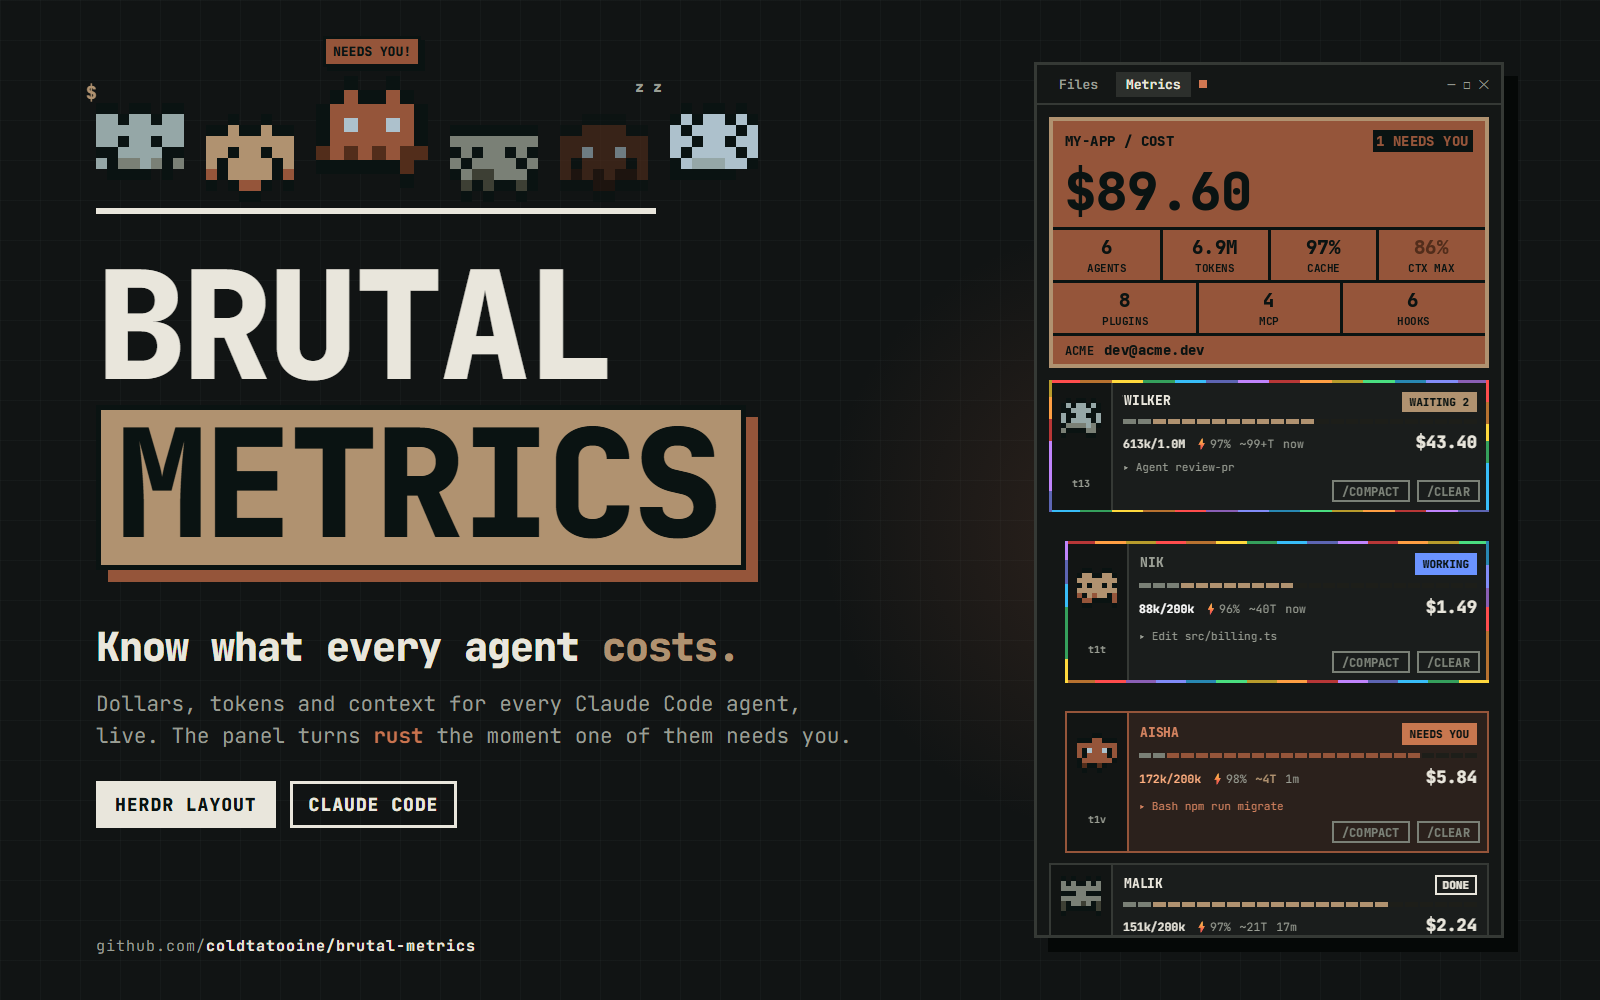
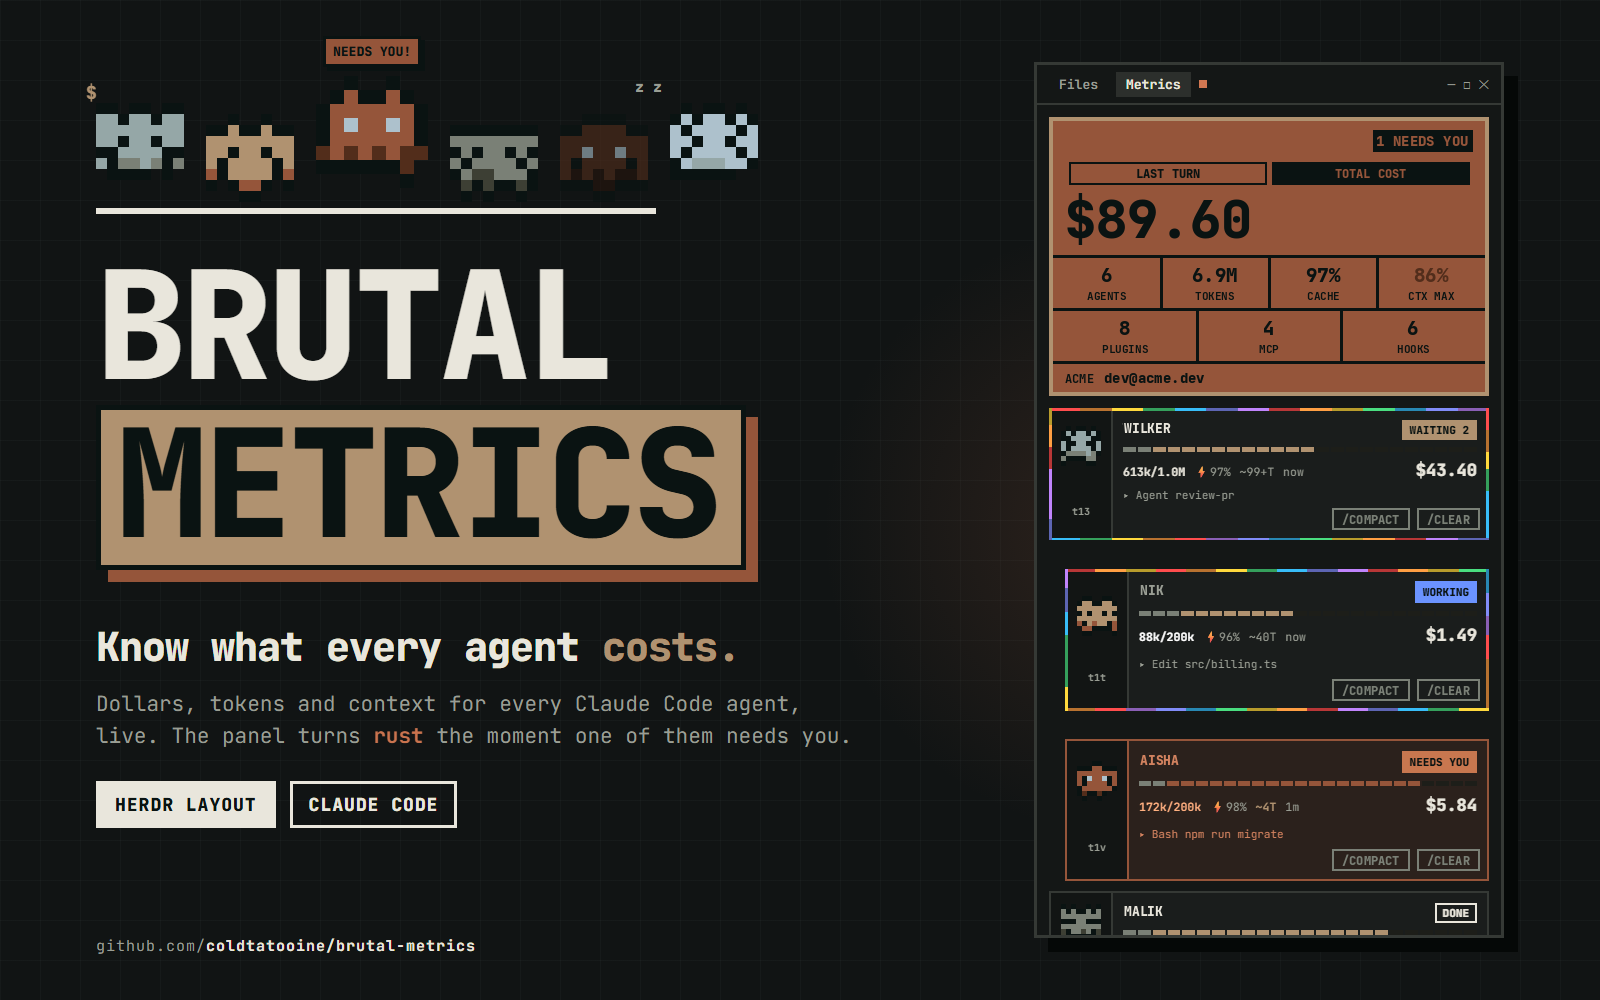
Remove the summary title and redraw the preview with the tabs

Changed region(s): [[0.6562, 0.124, 0.9375, 0.961]]

diff --git a/mods/agent-metrics/main.js b/mods/agent-metrics/main.js
@@ -156,11 +156,11 @@ export default class AgentMetrics extends View {
       .child(div().text_size(15).font_family(MONO).font_black().text_color(warn ? "#522d1b" : fg).truncate().child(value))
       .child(div().text_size(9).font_family(MONO).font_bold().text_color(fg).child(label));
     return div().flex_none().p(8).child(v_flex().w_full().border(3).border_color(edge).bg(bg)
-      .child(h_flex().px(10).pt(6).items_center().gap(8)
-        .child(div().flex_1().min_w(0).truncate().text_size(11).font_family(MONO).font_black().text_color(fg).child(`${(space?.name ?? "").toUpperCase()} / COST`))
+      .when(hot || waiting > 0, (el) => el.child(h_flex().px(10).pt(6).items_center().gap(8)
+        .child(div().flex_1())
         .when(hot, (el) => el.child(div().px(6).bg(fg).text_size(11).font_family(MONO).font_black().text_color(bg).loop("opacity", { from: 0.25, to: 1, period: 650 }).child(`${needs} NEEDS YOU`)))
-        .when(!hot && waiting > 0, (el) => el.child(div().px(6).border(2).border_color(fg).text_size(11).font_family(MONO).font_black().text_color(fg).loop("opacity", { from: 0.4, to: 1, period: 1500 }).child(`${waiting} WAITING`))))
-      .child(h_flex().px(10).pb(2).gap(6)
+        .when(!hot && waiting > 0, (el) => el.child(div().px(6).border(2).border_color(fg).text_size(11).font_family(MONO).font_black().text_color(fg).loop("opacity", { from: 0.4, to: 1, period: 1500 }).child(`${waiting} WAITING`)))))
+      .child(h_flex().px(10).pt(6).pb(2).gap(6)
         .children([["turn", "LAST TURN"], ["total", "TOTAL COST"]].map(([k, label]) => {
           const on = this.view === k;
           return div().id(`view-${k}`).flex_1().h(18).flex().items_center().justify_center().cursor_pointer()

diff --git a/RECIPE.md b/RECIPE.md
@@ -27,7 +27,7 @@ Everything is Herdr's `main` layout except four places:
   - **Files tab**: Herdr's file browser, rooted at the agent's project folder (see How it behaves).
   - **Metrics tab**, top to bottom, background `chrome`, JetBrains Mono (shipped with Herdr), bold and black weights, uppercase:
     1. **Summary block**, 8px margin, 3px border `#95a7a7`, fill `#7a8076`, all text `#0a1312`.
-       - Row 1: `<SPACE NAME> / COST` (11px black) and, right, a chip.
+       - Row 1 (only when needed): a chip on the right (`N NEEDS YOU`, blinking, or `N WAITING`). There is no title: the selected tab already says what the numbers are.
        - Tabs row: two equal tabs, `LAST TURN` (default) and `TOTAL COST` (10px black, 18px tall, 2px border; the active one is filled with the ink color). Clicking sets the view for the whole panel; it is kept in memory only.
        - Row 2: estimated cost, summed over the space's agents, 42px black (last turn or session total, by tab) (`$40.1`).
        - Rows 3 and 4, each a row of compact cells separated by 2px rules, value over label, both centered (15px black value, 9px label):
